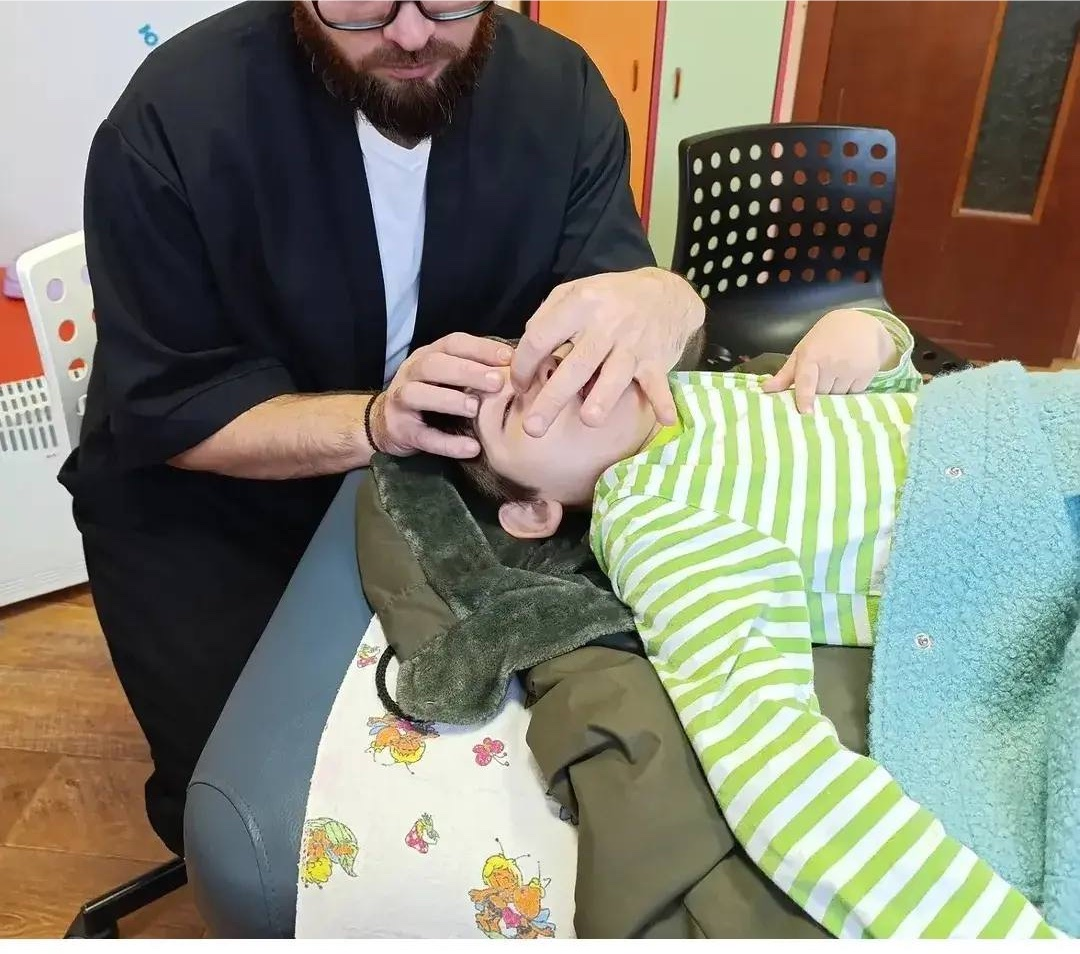
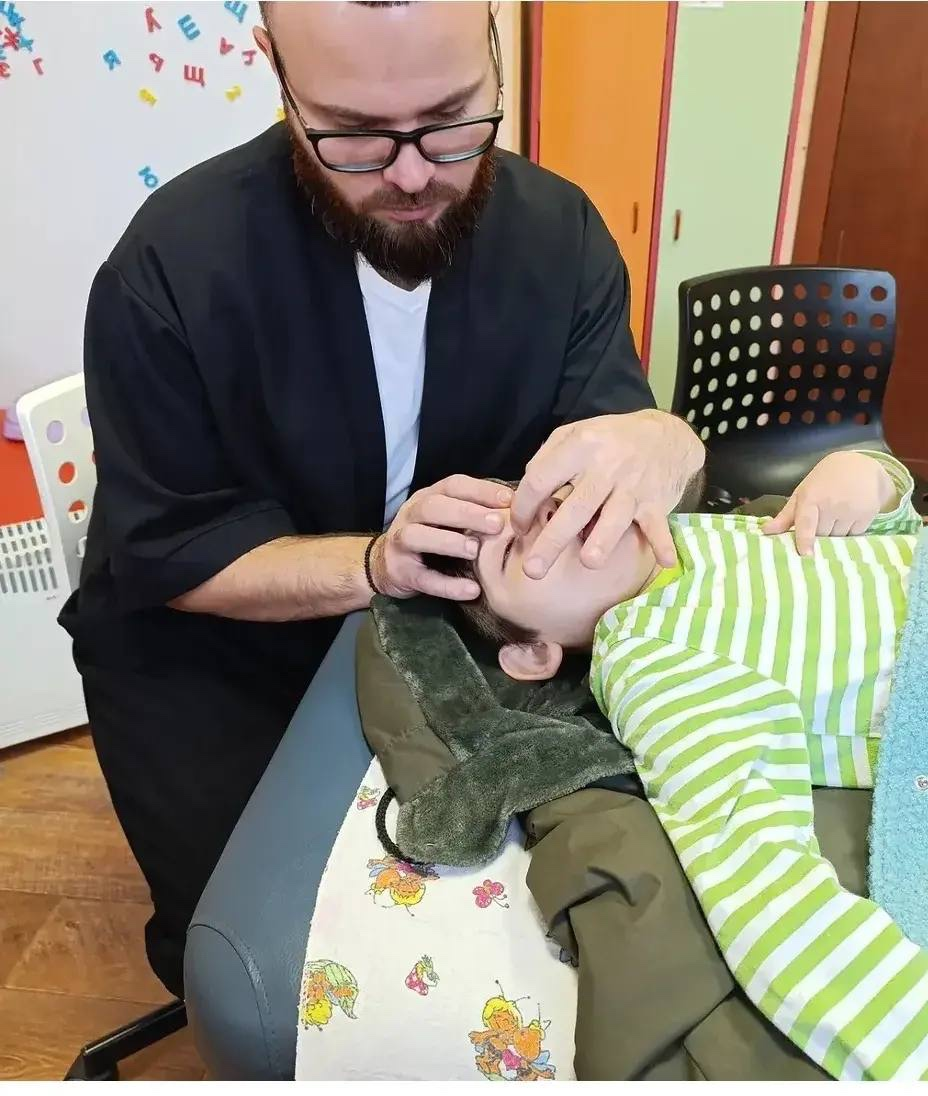
Neurogenesis pages: frame every cropped photo on the faces
Faces were detected with Vision and each crop set from them:
- gallery-3 was rebuilt from the original; the old file had the top
  cropped off to hide the Instagram counter, which cut the head. The
  counter now comes off the right edge instead.
- Gallery 4:3 frames: object-position chosen so the highest head
  (with hair) stays in frame; for gallery-2 the adult and child faces
  can't both fit 4:3, the adult's head wins.
- Speaker 4:5 frames centred horizontally on each face.
Hero, family, case and video posters show the whole image and needed
no change. Same on both pages.

diff --git a/biostimulyaciya-neirogeneza-bez-cen.html b/biostimulyaciya-neirogeneza-bez-cen.html
@@ -658,12 +658,12 @@ src="https://www.facebook.com/tr?id=1591788022721183&ev=PageView&noscript=1"
       <video src="photos/neurogenez/method-video.mp4" poster="photos/neurogenez/method-video-poster.jpg" controls preload="none" playsinline></video>
     </div>
     <div class="gallery" data-gallery style="margin-top:32px;">
-      <button type="button"><img src="photos/neurogenez/gallery-1.jpg" alt="Евгений Вишняков работает с ребёнком в жёлтой кофте" style="object-position: center 40%;"></button>
-      <button type="button"><img src="photos/neurogenez/gallery-2.jpg" alt="Работа с головой ребёнка в кресле" style="object-position: center 12%;"></button>
-      <button type="button"><img src="photos/neurogenez/gallery-3.jpg" alt="Мягкая работа с головой ребёнка" style="object-position: center 5%;"></button>
-      <button type="button"><img src="photos/neurogenez/gallery-4.jpg" alt="Работа с ребёнком на кушетке"></button>
-      <button type="button"><img src="photos/neurogenez/gallery-5.jpg" alt="Евгений Вишняков на сеансе с малышом" style="object-position: center 8%;"></button>
-      <button type="button"><img src="photos/neurogenez/gallery-6.jpg" alt="Работа с ребёнком в жёлтой кофте лёжа" style="object-position: center 45%;"></button>
+      <button type="button"><img src="photos/neurogenez/gallery-1.jpg" alt="Евгений Вишняков работает с ребёнком в жёлтой кофте" style="object-position: center 0%;"></button>
+      <button type="button"><img src="photos/neurogenez/gallery-2.jpg" alt="Работа с головой ребёнка в кресле" style="object-position: center 20%;"></button>
+      <button type="button"><img src="photos/neurogenez/gallery-3.jpg?v=2" alt="Мягкая работа с головой ребёнка" style="object-position: center 0%;"></button>
+      <button type="button"><img src="photos/neurogenez/gallery-4.jpg" alt="Работа с ребёнком на кушетке" style="object-position: center 72%;"></button>
+      <button type="button"><img src="photos/neurogenez/gallery-5.jpg" alt="Евгений Вишняков на сеансе с малышом" style="object-position: center 0%;"></button>
+      <button type="button"><img src="photos/neurogenez/gallery-6.jpg" alt="Работа с ребёнком в жёлтой кофте лёжа" style="object-position: center 8%;"></button>
     </div>
   </div>
 </section>
@@ -676,7 +676,7 @@ src="https://www.facebook.com/tr?id=1591788022721183&ev=PageView&noscript=1"
       <article class="speaker">
         <!-- Фото заменят на новое; пока селфи в том же кадре 4:5 -->
         <div class="speaker__role-tag">Ведущий</div>
-        <div class="speaker__photo"><img src="photos/evgeniy-vishnyakov.jpeg" alt="Евгений Вишняков" style="object-position: 58% 60%;" loading="lazy"></div>
+        <div class="speaker__photo"><img src="photos/evgeniy-vishnyakov.jpeg" alt="Евгений Вишняков" style="object-position: 65% 50%;" loading="lazy"></div>
         <div class="speaker__body">
           <h3 class="speaker__name">Евгений Вишняков</h3>
           <p class="speaker__role">Остеопат, реабилитолог, автор метода «Биостимуляция нейрогенеза», преподаватель и наставник МИОТ</p>
@@ -693,7 +693,7 @@ src="https://www.facebook.com/tr?id=1591788022721183&ev=PageView&noscript=1"
       </article>
       <article class="speaker">
         <div class="speaker__role-tag">Научный руководитель</div>
-        <div class="speaker__photo"><img src="photos/oleg-agape-square.jpg" alt="Олег Агапэ" style="object-position: 50% 30%;" loading="lazy"></div>
+        <div class="speaker__photo"><img src="photos/oleg-agape-square.jpg" alt="Олег Агапэ" style="object-position: 10% 50%;" loading="lazy"></div>
         <div class="speaker__body">
           <h3 class="speaker__name">Олег Агапэ</h3>
           <p class="speaker__role">Врач-остеопат, анатом, основатель Международного института остеопатических технологий (МИОТ)</p>

diff --git a/biostimulyaciya-neirogeneza.html b/biostimulyaciya-neirogeneza.html
@@ -657,12 +657,12 @@ src="https://www.facebook.com/tr?id=1591788022721183&ev=PageView&noscript=1"
       <video src="photos/neurogenez/method-video.mp4" poster="photos/neurogenez/method-video-poster.jpg" controls preload="none" playsinline></video>
     </div>
     <div class="gallery" data-gallery style="margin-top:32px;">
-      <button type="button"><img src="photos/neurogenez/gallery-1.jpg" alt="Евгений Вишняков работает с ребёнком в жёлтой кофте" style="object-position: center 40%;"></button>
-      <button type="button"><img src="photos/neurogenez/gallery-2.jpg" alt="Работа с головой ребёнка в кресле" style="object-position: center 12%;"></button>
-      <button type="button"><img src="photos/neurogenez/gallery-3.jpg" alt="Мягкая работа с головой ребёнка" style="object-position: center 5%;"></button>
-      <button type="button"><img src="photos/neurogenez/gallery-4.jpg" alt="Работа с ребёнком на кушетке"></button>
-      <button type="button"><img src="photos/neurogenez/gallery-5.jpg" alt="Евгений Вишняков на сеансе с малышом" style="object-position: center 8%;"></button>
-      <button type="button"><img src="photos/neurogenez/gallery-6.jpg" alt="Работа с ребёнком в жёлтой кофте лёжа" style="object-position: center 45%;"></button>
+      <button type="button"><img src="photos/neurogenez/gallery-1.jpg" alt="Евгений Вишняков работает с ребёнком в жёлтой кофте" style="object-position: center 0%;"></button>
+      <button type="button"><img src="photos/neurogenez/gallery-2.jpg" alt="Работа с головой ребёнка в кресле" style="object-position: center 20%;"></button>
+      <button type="button"><img src="photos/neurogenez/gallery-3.jpg?v=2" alt="Мягкая работа с головой ребёнка" style="object-position: center 0%;"></button>
+      <button type="button"><img src="photos/neurogenez/gallery-4.jpg" alt="Работа с ребёнком на кушетке" style="object-position: center 72%;"></button>
+      <button type="button"><img src="photos/neurogenez/gallery-5.jpg" alt="Евгений Вишняков на сеансе с малышом" style="object-position: center 0%;"></button>
+      <button type="button"><img src="photos/neurogenez/gallery-6.jpg" alt="Работа с ребёнком в жёлтой кофте лёжа" style="object-position: center 8%;"></button>
     </div>
   </div>
 </section>
@@ -675,7 +675,7 @@ src="https://www.facebook.com/tr?id=1591788022721183&ev=PageView&noscript=1"
       <article class="speaker">
         <!-- Фото заменят на новое; пока селфи в том же кадре 4:5 -->
         <div class="speaker__role-tag">Ведущий</div>
-        <div class="speaker__photo"><img src="photos/evgeniy-vishnyakov.jpeg" alt="Евгений Вишняков" style="object-position: 58% 60%;" loading="lazy"></div>
+        <div class="speaker__photo"><img src="photos/evgeniy-vishnyakov.jpeg" alt="Евгений Вишняков" style="object-position: 65% 50%;" loading="lazy"></div>
         <div class="speaker__body">
           <h3 class="speaker__name">Евгений Вишняков</h3>
           <p class="speaker__role">Остеопат, реабилитолог, автор метода «Биостимуляция нейрогенеза», преподаватель и наставник МИОТ</p>
@@ -692,7 +692,7 @@ src="https://www.facebook.com/tr?id=1591788022721183&ev=PageView&noscript=1"
       </article>
       <article class="speaker">
         <div class="speaker__role-tag">Научный руководитель</div>
-        <div class="speaker__photo"><img src="photos/oleg-agape-square.jpg" alt="Олег Агапэ" style="object-position: 50% 30%;" loading="lazy"></div>
+        <div class="speaker__photo"><img src="photos/oleg-agape-square.jpg" alt="Олег Агапэ" style="object-position: 10% 50%;" loading="lazy"></div>
         <div class="speaker__body">
           <h3 class="speaker__name">Олег Агапэ</h3>
           <p class="speaker__role">Врач-остеопат, анатом, основатель Международного института остеопатических технологий (МИОТ)</p>
